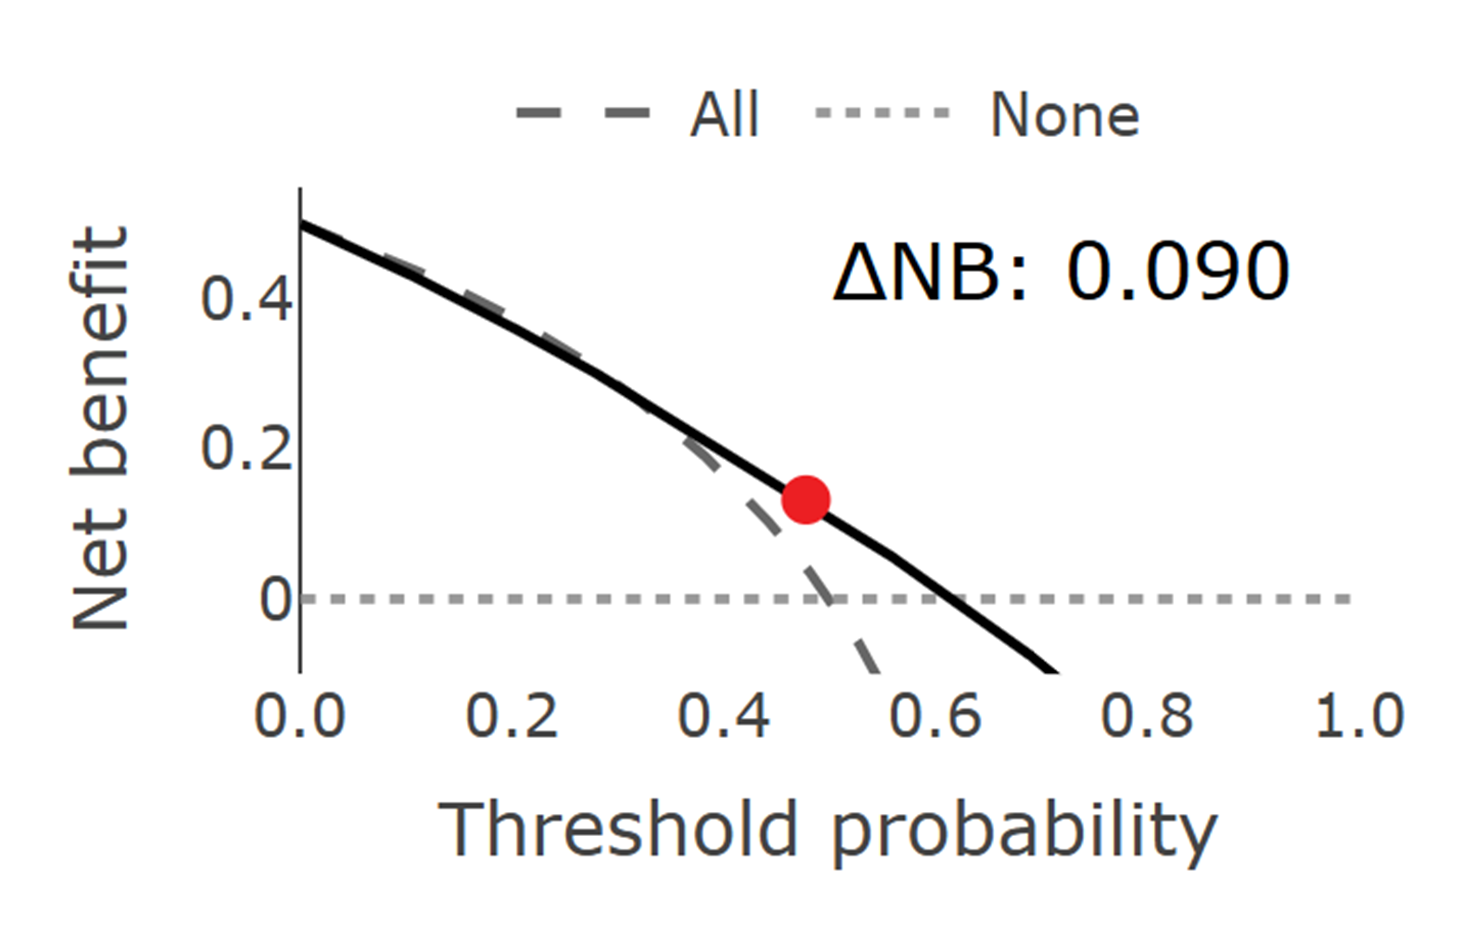
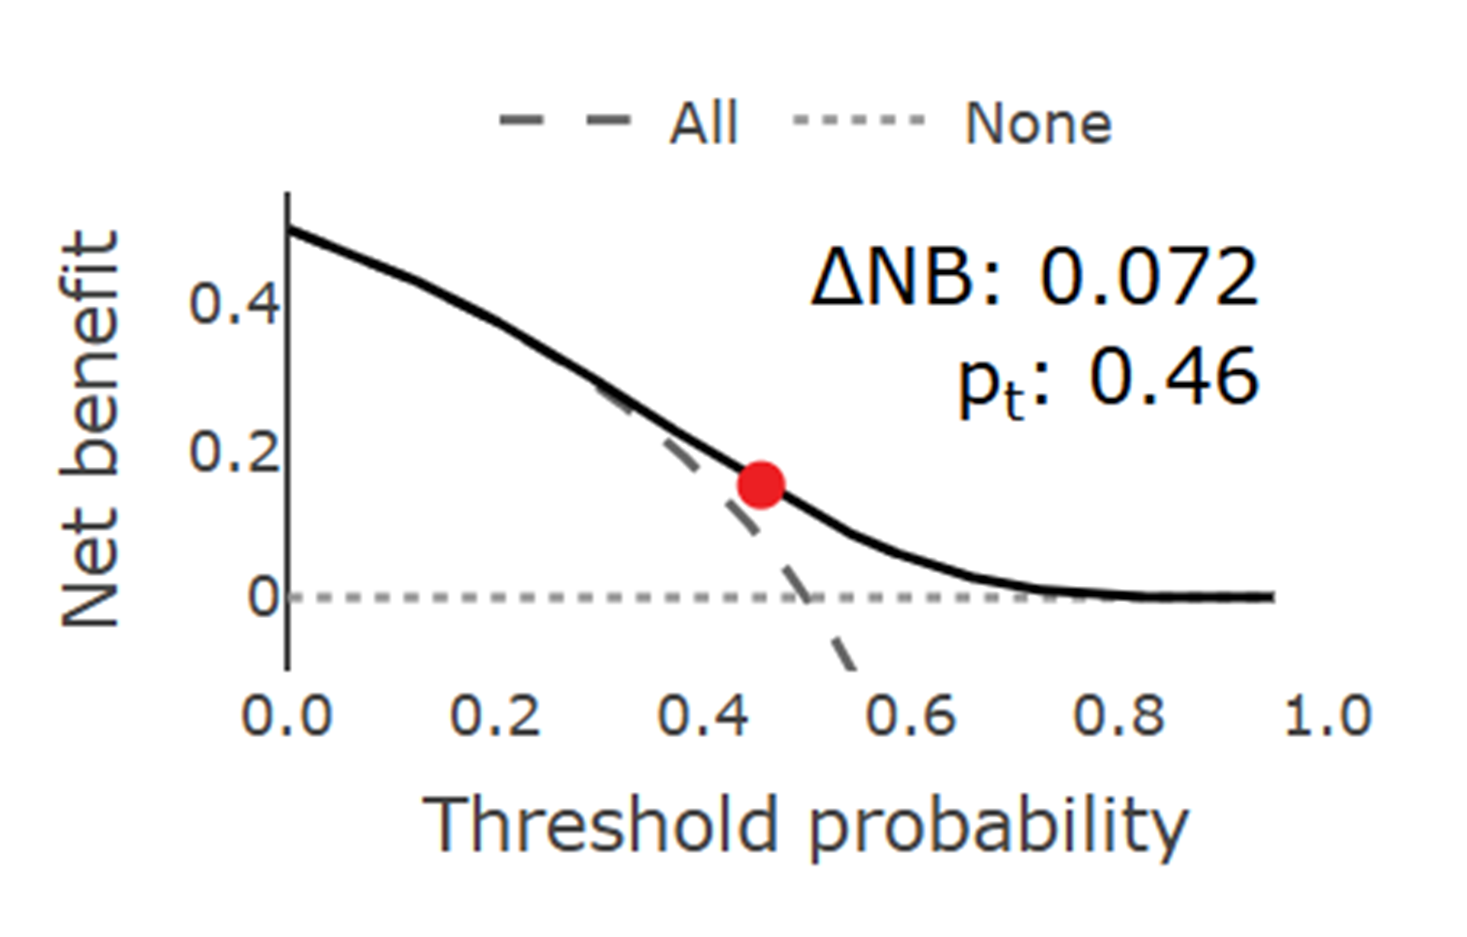
fixed dca completely

diff --git a/js/dca.js b/js/dca.js
@@ -49,9 +49,18 @@ const DCAModule = {
                 thresholds
             } = data;
             
+            // Debug: log the current threshold and metrics
+            console.log('DCA Debug:', {
+                currentThreshold: data.currentThreshold,
+                currentMetrics: data.currentMetrics ? {
+                    sensitivity: data.currentMetrics.sensitivity,
+                    specificity: data.currentMetrics.specificity
+                } : 'undefined'
+            });
+            
             // Calculate net benefit across threshold probabilities using current model performance
             const ptMin = 0.001;
-            const ptMax = 0.999;
+            const ptMax = 0.95;  // Further reduce upper limit for smoother curves
             const step = 0.001;
             
             const thresholdProbs = [];
@@ -62,65 +71,42 @@ const DCAModule = {
             for (let pt = ptMin; pt <= ptMax; pt += step) {
                 const odds = pt / (1 - pt);
                 
-                // Calculate sensitivity and specificity at threshold probability pt
-                let sensitivityAtPt, specificityAtPt;
+                // Calculate optimal sensitivity and specificity for this pt
+                let bestNetBenefit = -Infinity;
+                let sensitivityAtPt = 0;
+                let specificityAtPt = 0;
                 
                 if (FPR && TPR && FPR.length > 0 && TPR.length > 0) {
-                    // Use ROC curve data to find sensitivity and specificity at threshold pt
-                    // In DCA, pt represents the probability threshold for classification
-                    // We need to interpolate sensitivity and specificity from the ROC curve
-                    
-                    // For DCA, we need to find the point on the ROC curve that corresponds
-                    // to using pt as the classification threshold
-                    // This is a complex mapping that depends on the underlying prediction model
-                    
-                    // As a first approximation, we'll use the relationship:
-                    // pt = 0 (treat everyone) -> FPR = 1, TPR = 1
-                    // pt = 1 (treat no one) -> FPR = 0, TPR = 0
-                    // Linear interpolation: targetFPR = 1 - pt
-                    const targetFPR = 1 - pt;
-                    
-                    // Find the two closest points for interpolation
-                    let lowerIndex = 0;
-                    let upperIndex = FPR.length - 1;
-                    
-                    for (let i = 0; i < FPR.length - 1; i++) {
-                        if (FPR[i] >= targetFPR && FPR[i + 1] <= targetFPR) {
-                            lowerIndex = i;
-                            upperIndex = i + 1;
-                            break;
+                    // For each point on the ROC curve, calculate net benefit for this pt
+                    // Choose the point that gives the highest net benefit
+                    for (let i = 0; i < FPR.length; i++) {
+                        const currentSensitivity = TPR[i];
+                        const currentSpecificity = 1 - FPR[i];
+                        
+                        // Calculate net benefit for this ROC point at this pt
+                        const netBenefit = (currentSensitivity * baseRate) - ((1 - currentSpecificity) * (1 - baseRate) * odds);
+                        
+                        // Keep the ROC point that gives the highest net benefit
+                        if (netBenefit > bestNetBenefit) {
+                            bestNetBenefit = netBenefit;
+                            sensitivityAtPt = currentSensitivity;
+                            specificityAtPt = currentSpecificity;
                         }
                     }
-                    
-                    // Linear interpolation
-                    const fpr1 = FPR[lowerIndex];
-                    const fpr2 = FPR[upperIndex];
-                    const tpr1 = TPR[lowerIndex];
-                    const tpr2 = TPR[upperIndex];
-                    
-                    if (fpr1 === fpr2) {
-                        sensitivityAtPt = tpr1;
-                        specificityAtPt = 1 - fpr1;
-                    } else {
-                        const weight = (targetFPR - fpr1) / (fpr2 - fpr1);
-                        sensitivityAtPt = tpr1 + weight * (tpr2 - tpr1);
-                        specificityAtPt = 1 - targetFPR;
-                    }
                 } else {
-                    // Fallback to provided sensitivity/specificity if ROC data not available
+                    // Fallback to provided sensitivity/specificity if no ROC data
                     sensitivityAtPt = sensitivity;
                     specificityAtPt = specificity;
+                    bestNetBenefit = (sensitivityAtPt * baseRate) - ((1 - specificityAtPt) * (1 - baseRate) * odds);
                 }
-                
-                const netBenefit = (sensitivityAtPt * baseRate) - ((1 - specificityAtPt) * (1 - baseRate) * odds);
                 
                 // Calculate treat all strategy: treat everyone regardless of test result
                 // TP = all cases, FP = all controls
                 const treatAllBenefit = baseRate - ((1 - baseRate) * odds);
                 
                 thresholdProbs.push(pt);
-                netBenefits.push(netBenefit); // Allow negative net benefit
-                treatAllBenefits.push(treatAllBenefit); // Allow negative net benefit for treat all
+                netBenefits.push(bestNetBenefit);
+                treatAllBenefits.push(treatAllBenefit);
                 treatNoneBenefits.push(0); // Treat none = 0
             }
             
@@ -141,30 +127,67 @@ const DCAModule = {
             // Calculate Delta NB and NR_100 at current threshold position
             let currentDeltaNB = 0;
             let formattedDeltaNB = "0.000";
+            let currentThresholdProb = 0;
             
             if (data.currentThreshold !== undefined && data.currentMetrics !== undefined) {
                 const currentMetrics = data.currentMetrics;
                 const currentThreshold = data.currentThreshold;
                 
-                // Scale the classification threshold to 0-1 range for threshold probability
-                // Use the actual threshold range from the data
-                const thresholdMin = data.thresholdRange ? data.thresholdRange.min : -4;
-                const thresholdMax = data.thresholdRange ? data.thresholdRange.max : 4;
-                const thresholdProbability = Math.max(0, Math.min(1, (currentThreshold - thresholdMin) / (thresholdMax - thresholdMin)));
-                
-                // Find the closest point to current threshold
+                // For the red marker, we need to find which pt value corresponds to the current classification threshold
+                // We do this by finding the pt that gives us the current sensitivity/specificity
                 let closestIndex = 0;
-                let minDiff = Math.abs(thresholdProbs[0] - thresholdProbability);
-                
-                for (let i = 1; i < thresholdProbs.length; i++) {
-                    const diff = Math.abs(thresholdProbs[i] - thresholdProbability);
+                let minDiff = Infinity;
+            
+                // Find the pt that corresponds to the current threshold's actual net benefit
+                // Use a smoother approach to reduce marker jumping
+                let bestPt = 0.5;
+                let bestNetBenefit = 0;
+            
+            for (let i = 0; i < thresholdProbs.length; i++) {
+                const pt = thresholdProbs[i];
+                    const odds = pt / (1 - pt);
+                    
+                    // Calculate what net benefit the current threshold would give at this pt
+                    const currentThresholdNetBenefit = (currentMetrics.sensitivity * baseRate) - ((1 - currentMetrics.specificity) * (1 - baseRate) * odds);
+                    
+                    // Find the pt where this net benefit matches the DCA curve
+                    const diff = Math.abs(currentThresholdNetBenefit - netBenefits[i]);
+                    
                     if (diff < minDiff) {
                         minDiff = diff;
                         closestIndex = i;
+                        bestPt = pt;
+                        bestNetBenefit = currentThresholdNetBenefit;
                     }
                 }
                 
+                // Use interpolation to smooth the pt value
+                if (closestIndex > 0 && closestIndex < thresholdProbs.length - 1) {
+                    const prevPt = thresholdProbs[closestIndex - 1];
+                    const nextPt = thresholdProbs[closestIndex + 1];
+                    const prevNB = netBenefits[closestIndex - 1];
+                    const nextNB = netBenefits[closestIndex + 1];
+                    const currentNB = netBenefits[closestIndex];
+                    
+                    // Linear interpolation to get a smoother pt value
+                    if (Math.abs(bestNetBenefit - prevNB) < Math.abs(bestNetBenefit - nextNB)) {
+                        const weight = Math.abs(bestNetBenefit - currentNB) / (Math.abs(bestNetBenefit - currentNB) + Math.abs(bestNetBenefit - prevNB) + 0.001);
+                        currentThresholdProb = bestPt + (prevPt - bestPt) * weight * 0.5;
+                    } else {
+                        const weight = Math.abs(bestNetBenefit - currentNB) / (Math.abs(bestNetBenefit - currentNB) + Math.abs(bestNetBenefit - nextNB) + 0.001);
+                        currentThresholdProb = bestPt + (nextPt - bestPt) * weight * 0.5;
+                    }
+                } else {
+                    currentThresholdProb = bestPt;
+                }
+                
                 currentDeltaNB = deltaNB[closestIndex];
+                // currentThresholdProb is already set by the interpolation above
+            } else {
+                // Fallback: use middle of the pt range
+                const middleIndex = Math.floor(thresholdProbs.length / 2);
+                currentDeltaNB = deltaNB[middleIndex];
+                currentThresholdProb = thresholdProbs[middleIndex];
             }
             
             // Format Delta NB for display
@@ -203,24 +226,15 @@ const DCAModule = {
                 showlegend: true,
             };
             
-            // Add threshold marker - convert classification threshold to threshold probability
+            // Add threshold marker - use the pt value we already calculated
             let thresholdMarker = null;
             if (data.currentThreshold !== undefined && data.currentMetrics !== undefined) {
-                const currentThreshold = data.currentThreshold;
-                const currentMetrics = data.currentMetrics;
-                
-                // Scale the classification threshold to 0-1 range for threshold probability
-                // Use the actual threshold range from the data
-                const thresholdMin = data.thresholdRange ? data.thresholdRange.min : -4;
-                const thresholdMax = data.thresholdRange ? data.thresholdRange.max : 4;
-                const thresholdProbability = Math.max(0, Math.min(1, (currentThreshold - thresholdMin) / (thresholdMax - thresholdMin)));
-                
-                // Find the closest point on the DCA curve to this threshold probability
+                // Find the index corresponding to our calculated currentThresholdProb
                 let closestIndex = 0;
-                let minDiff = Math.abs(thresholdProbs[0] - thresholdProbability);
+                let minDiff = Math.abs(thresholdProbs[0] - currentThresholdProb);
                 
                 for (let i = 1; i < thresholdProbs.length; i++) {
-                    const diff = Math.abs(thresholdProbs[i] - thresholdProbability);
+                    const diff = Math.abs(thresholdProbs[i] - currentThresholdProb);
                     if (diff < minDiff) {
                         minDiff = diff;
                         closestIndex = i;
@@ -269,10 +283,10 @@ const DCAModule = {
                     y: 0.95,
                     xref: "paper",
                     yref: "paper",
-                    text: `ΔNB: ${formattedDeltaNB}`,
+                    text: `ΔNB: ${formattedDeltaNB}<br>p<sub>t</sub>: ${currentThresholdProb.toFixed(2)}`,
                     showarrow: false,
                     font: { size: 16, color: "black", weight: "bold" },
-                    align: "right",
+                    align: "right"
                 }],
                 autosize: true,
             };
@@ -292,7 +306,7 @@ const DCAModule = {
             if (!instance.initialized) {
                 Plotly.newPlot(instance.plotSelector, traces, dcaLayout, config);
                 instance.initialized = true;
-            } else {
+                } else {
                 Plotly.react(instance.plotSelector, traces, dcaLayout, config);
             }
             
